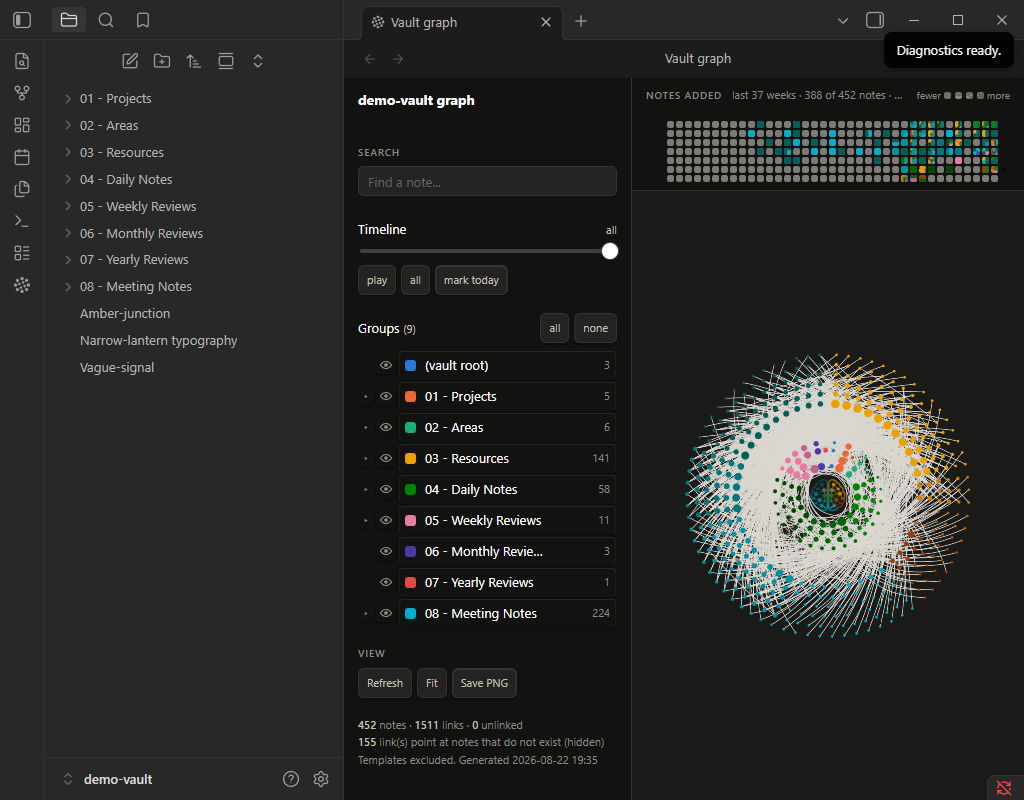
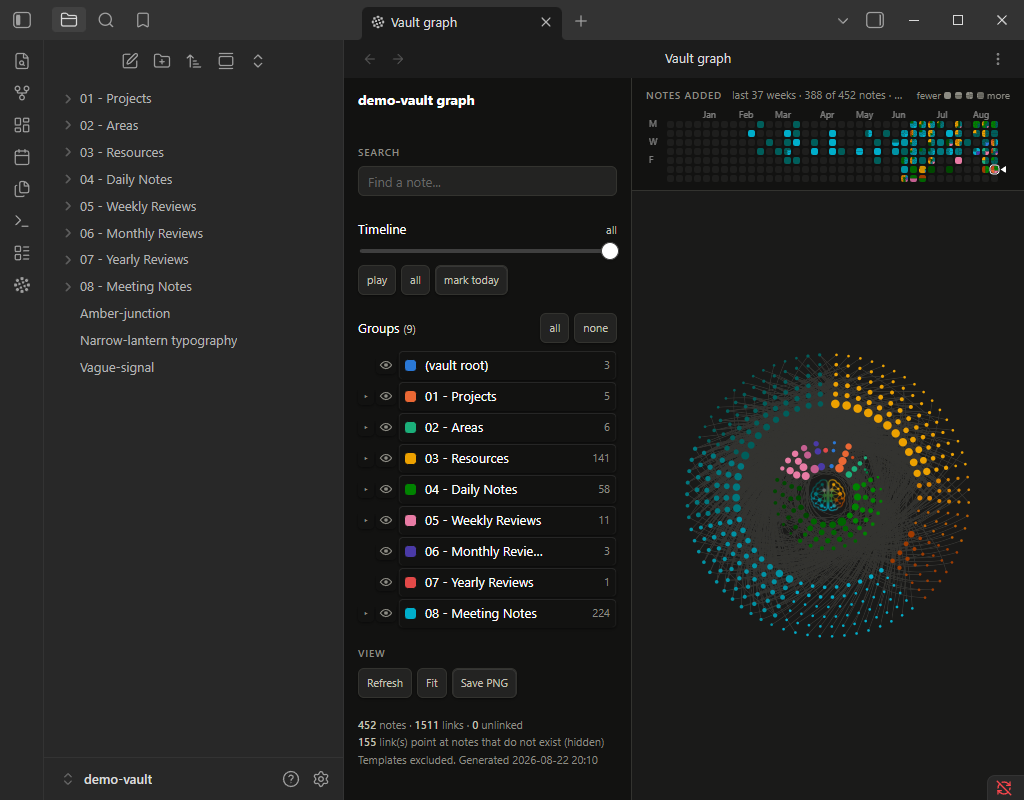
Hand back a live handle, not an api that does not exist yet
mountVaultGraph returned `API`, and `API` is assigned inside the deferred init --
a setTimeout so the browser can paint "Laying out graph..." first. So it returned
NULL, every time, and null reads exactly like "no api" to a guard.

Three things were silently doing nothing as a result:

  * the theme repaint. readTheme() and refresh() sat behind `if (this.api)`, so
    switching Obsidian's theme restyled the DOM and left the canvas painted in the
    old palette. The only thing that fixed it was reloading the view, which is
    exactly what was reported from testing.
  * renderer.kill() on close, so every open/close leaked a WebGL context.
  * the diagnostics command, which reported zeros.

Measured, and this is what made it findable rather than guessable: at capture
time the page's own CSS token said --edge #333330 while the renderer was still
drawing #e8e7e1, and a hand-run readTheme() + refresh() corrected it instantly.
The repaint worked all along; nothing was calling it.

It returns `{ get api() }` now. A getter cannot be captured too early and cannot
be mistaken for a value that never arrived. After the fix the renderer's edge
colour already matches its token in both themes with no manual re-read -- so a
theme switch repaints live, and the reload workaround is not needed.

Screenshots retaken with the fix, which is also why the previous ones looked
wrong: dark chrome around a light-palette disc. The harness now clears Obsidian's
[…]

diff --git a/plugin/main.js b/plugin/main.js
@@ -391,7 +391,11 @@ class VaultGraphView extends ItemView {
   constructor(leaf, plugin) {
     super(leaf);
     this.plugin = plugin;
-    this.api = null;         // what mountVaultGraph returned: the __vg surface
+    // A HANDLE, not the api. mountVaultGraph returns before its deferred init has built
+    // the api, so anything captured here would be null forever -- and null reads exactly
+    // like "no api" to every guard below, which is how the theme repaint, the renderer
+    // teardown and the diagnostics all became silent no-ops together.
+    this.handle = null;
     this.lastData = null;
     this.mountMs = 0;
   }
@@ -412,10 +416,11 @@ class VaultGraphView extends ItemView {
   // number of them; opening and closing this view a dozen times without killing the
   // renderer exhausts them and the thirteenth mount draws nothing at all.
   teardown() {
-    if (this.api && this.api.renderer) {
-      try { this.api.renderer.kill(); } catch { /* already gone */ }
+    const api = this.handle && this.handle.api;
+    if (api && api.renderer) {
+      try { api.renderer.kill(); } catch { /* already gone */ }
     }
-    this.api = null;
+    this.handle = null;
     this.contentEl.empty();
   }
 
@@ -435,13 +440,17 @@ class VaultGraphView extends ItemView {
     //
     // Then repaint: the renderer only draws when asked, and the logo and heatmap band paint
     // from `afterRender`, so a refresh carries them along.
-    if (this.api) {
+    const api = this.handle && this.handle.api;
+    if (api) {
       try {
-        if (this.api.readTheme) this.api.readTheme();
-        if (this.api.renderer) this.api.renderer.refresh();
-        if (this.api.placeLogo) this.api.placeLogo();
-        if (this.api.heatBuild) this.api.heatBuild();
+        if (api.readTheme) api.readTheme();
+        if (api.renderer) api.renderer.refresh();
+        if (api.placeLogo) api.placeLogo();
+        if (api.heatBuild) api.heatBuild();
       } catch { /* a half-built view is not worth an exception here */ }
+    } else {
+      // Still initialising. It will mount with the current theme anyway, because render()
+      // sets the attribute before calling mountVaultGraph.
     }
   }
 
@@ -476,7 +485,7 @@ class VaultGraphView extends ItemView {
     this.registerEvent(this.app.workspace.on("css-change", () => this.syncTheme()));
 
     const t0 = performance.now();
-    this.api = mountVaultGraph(page, data, {
+    this.handle = mountVaultGraph(page, data, {
       // Real module imports, not globals: the UMD wrappers take their `module.exports`
       // branch under esbuild, so nothing is ever assigned to `window`. This is exactly why
       // page.js takes its libraries as arguments.
@@ -549,7 +558,7 @@ class VaultGraphPlugin extends Plugin {
       callback: () => {
         const view = this.currentView();
         if (!view) { new Notice("Open the graph first."); return; }
-        const api = view.api;
+        const api = view.handle && view.handle.api;
         const report = {
           mount: "in-dom",
           mountMs: view.mountMs,

diff --git a/src/page.js b/src/page.js
@@ -4915,7 +4915,17 @@ function mountVaultGraph(root, data, deps) {
     }
     $("busy").style.display = "none";
   }, 20);
-  return API;
+  // A LIVE HANDLE, not the API itself.
+  //
+  // Init runs inside a setTimeout so the browser can paint "Laying out graph..." first, so
+  // API does not exist yet when this returns. Returning it directly returned null -- and
+  // null is indistinguishable from "no api" to every `if (this.api)` guard on the plugin
+  // side, which is how the theme repaint, the renderer teardown and the diagnostics all
+  // became silent no-ops at once. Measured: the canvas held #e8e7e1 while its own CSS token
+  // said #333330, and a manual readTheme() + refresh() fixed it instantly.
+  //
+  // A getter cannot go stale, and it cannot be mistaken for a value that never arrived.
+  return { get api() { return API; }, get ready() { return API !== null; } };
 }
 
 export { mountVaultGraph };

diff --git a/README.md b/README.md
@@ -10,14 +10,6 @@ becomes something you can learn and recognise rather than a fresh tangle each ti
 
 ![The disc growing from the vault first note, a note hovered, a folder hidden, a subfolder highlighted, three heatmap days hovered, then one folder soloed](assets/demo.gif)
 
-Recorded against a **generated mirror** of a real vault -- same folder tree, same note
-counts, same dates, same link graph, none of the content (`scripts/make-demo-vault.mjs`).
-Nothing in it is staged: `?demo` drives the real controls over Chrome DevTools
-protocol, `scripts/record-demo.ps1` captures it unattended, and it stops on the demo
-finishing rather than after a guessed duration -- see
-[`.ai-context/decisions/0007`](.ai-context/decisions/0007-the-demo-drives-real-input.md).
-
-And the same thing inside Obsidian:
 
 ![Vault Graph inside Obsidian, dark theme](assets/screenshots/plugin-dark.png)
 
